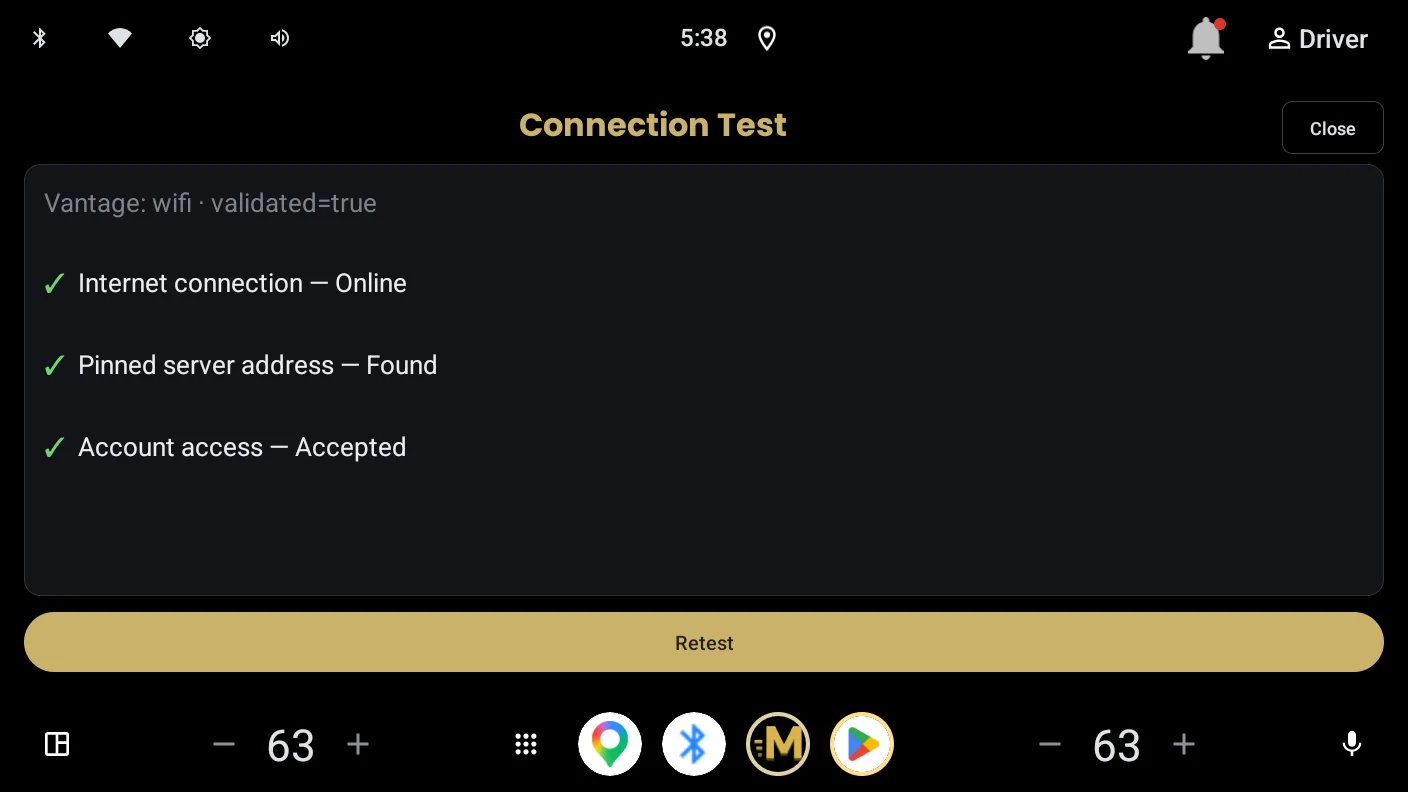
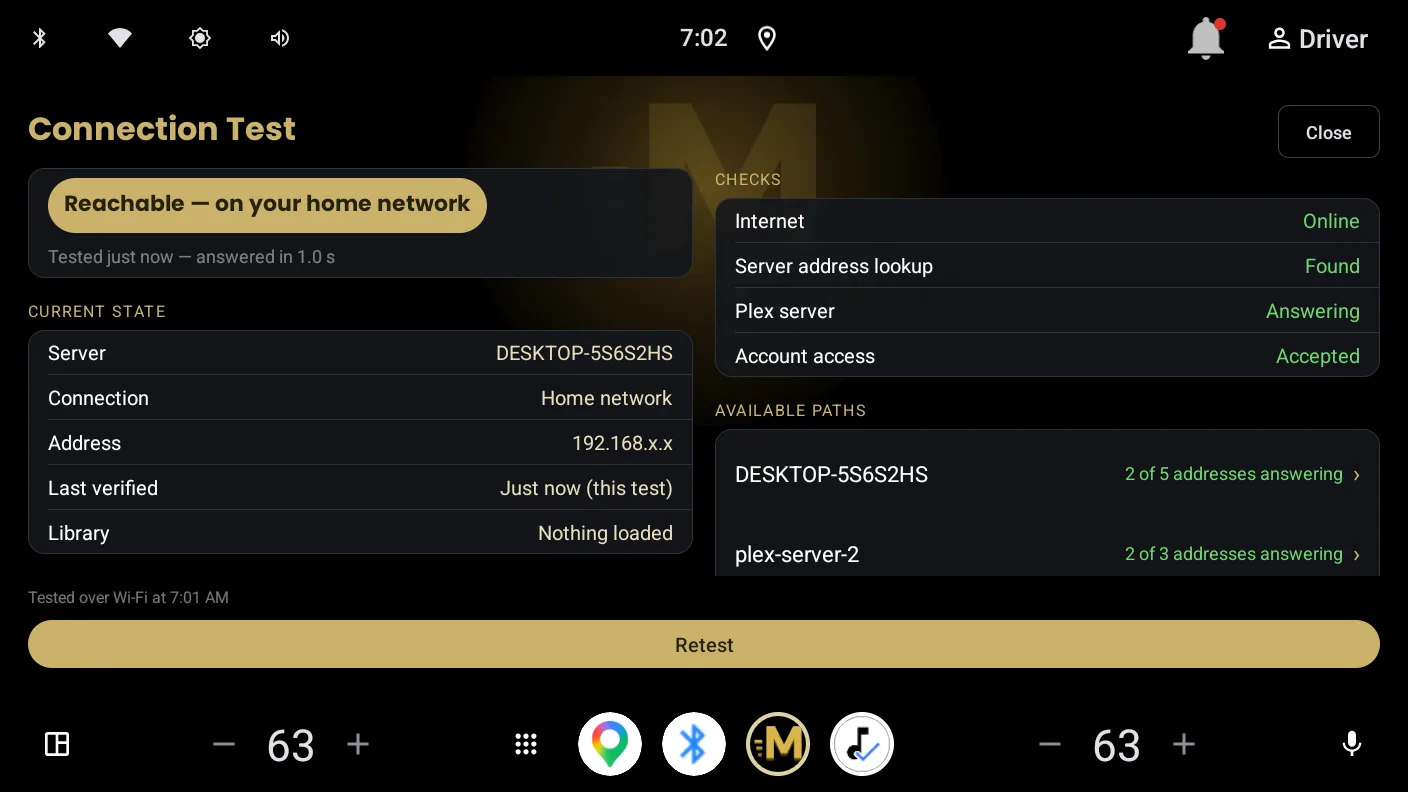
FAQ: Connection Test decoder, the three named connection causes, corrected quality answer, tunnel vs VPN

diff --git a/faq.html b/faq.html
@@ -26,7 +26,7 @@
   <h1>Help &amp; FAQ</h1>
   <p class="lede">Most problems come down to one question: can the car reach your server right now? Start with the Connection Test in the app's settings. It runs the same checks Momentum uses internally and tells you in plain language which step failed.</p>
 
-  <img class="shot" src="images/connection-test.webp" alt="Momentum's built-in Connection Test showing three passing checks: internet connection, pinned server address, and account access" width="1408" height="792" loading="lazy">
+  <img class="shot" src="images/connection-test.webp" alt="Momentum's built-in Connection Test: a green verdict reading Reachable, the server's current connection and address, four passing checks — internet, server address lookup, Plex server, and account access — and a list of every address Plex publishes for each server" width="1408" height="792" loading="lazy">
 
   <!-- DRAFT: these answers are starting points. Expand each from real tester
        cases, and add new entries as support questions repeat. -->
@@ -40,10 +40,50 @@
   </details>
 
   <details>
+    <summary>What do the Connection Test's checks actually mean?</summary>
+    <div class="answer">
+      <p><strong>Internet</strong> — whether the car has a working connection at all. This is tested against Plex's own servers. A failure here means the car is offline; nothing is wrong with your server.</p>
+      <p><strong>Server address lookup</strong> — whether your server's address can be translated into a network address. A failure is a DNS problem, usually in the car's network or a router setting, and not something Plex controls.</p>
+      <p><strong>Plex server</strong> — whether your server answered. This is the one that matters most. If it fails, the checks below it could not run.</p>
+      <p><strong>Account access</strong> — whether your server accepted your Plex account. "Not checked — server didn't answer" means the server never replied, so nothing about your account was tested. A real failure here reads "Rejected (not authorized)" and means either remote streaming needs a Plex Pass, or a shared server needs access granted by its owner.</p>
+      <p><strong>Available paths</strong> — every address Plex publishes for each of your servers, and which of them answered. "0 of 4 addresses answering" means none of the routes to that server worked from the car. If a second server shows addresses answering, you can switch to it in Settings.</p>
+    </div>
+  </details>
+
+  <details>
+    <summary>Plex publishes a direct address for my server, but it didn't answer</summary>
+    <div class="answer">
+      <p>This means Plex knows a public address for your server and is telling clients to use it, but nothing responded there. The server is running and talking to Plex; the route in from outside is broken.</p>
+      <p>The usual cause is a port forward that stopped working. Routers can drop forwards when they restart (depends on how it was configured), and a forward also breaks silently when the server's local address changes, which happens on its own if the server gets its address automatically. The durable fix is to give the server a fixed local address in your router's settings, then re-create the forward to that address.</p>
+      <p>Also worth checking: that the server is awake and not asleep, and that Plex's Remote Access page still reads "Fully accessible outside your network". If you have recently changed router or internet provider, the address Plex is publishing may simply be out of date. Plex will catch up on its own, though it can take a while.</p>
+    </div>
+  </details>
+
+  <details>
+    <summary>Plex is only advertising a local address for my server</summary>
+    <div class="answer">
+      <p>A local address only works inside your house, and your car connects from outside it. Plex has no public route to hand out, so there is nothing for the car to reach.</p>
+      <p>Open Plex's Settings, then Remote Access. It should read "Fully accessible outside your network". If Remote Access is switched off, turn it on, tick "Manually specify public port", and forward that port on your router to the machine running Plex. A fixed local address for the server makes that forward survive; if the server's address changes on its own, the forward stops pointing anywhere.</p>
+      <p>If you have just enabled it, give it a few minutes. Plex can be slow to publish a new address, and the car will find it once it appears.</p>
+      <p>If Remote Access is on and still cannot get a public route, your internet provider may not be giving you one. That is a different situation, covered below.</p>
+    </div>
+  </details>
+
+  <details>
+    <summary>My provider gives my server an address shared with other customers</summary>
+    <div class="answer">
+      <p>Shared addresses, sometimes called carrier-grade NAT, cannot accept incoming connections. No port forward will help, because there is no port to forward to. This is not something you have set up wrong; plenty of providers do it by default.</p>
+      <p>There are two ways out. The first is to ask your provider whether they can give the server its own public address. Some will, sometimes free and sometimes for a small charge, and some will not offer it at all. This varies by country and provider more than by anything you can control.</p>
+      <p>The second is a tunnel, which gives your server a public address without needing one from your provider. Tailscale Funnel is the simplest of these and is known to work with Momentum. Note that this is different from plain Tailscale or WireGuard, which the car cannot join.</p>
+      <p>If neither is possible, Plex Relay will still work. It is slower and caps quality, but it plays.</p>
+    </div>
+  </details>
+
+  <details>
     <summary>Why did my music quality drop, or a track play as MP3?</summary>
     <div class="answer">
-      <p>When the connection cannot sustain a file's full bitrate, Momentum automatically falls back to a converted stream rather than stopping playback. This is most common on Plex Relay connections, which are bandwidth-limited by Plex, and on weak cellular stretches. Your files on the server are never touched; the conversion happens in transit, and direct play resumes when conditions allow.</p>
-      <p>If this happens constantly, check whether your server is connecting via Relay instead of a direct port-forwarded connection.</p>
+      <p>If the file is FLAC and it still played as MP3, the connection could not carry it at full bitrate, so Momentum switched to a converted stream rather than stopping playback. This is most common on Plex Relay connections, which are bandwidth-limited by Plex, and on weak cellular stretches. Your files on the server are never touched; the conversion happens in transit, and direct play resumes when conditions allow.</p>
+      <p>If this happens constantly, check whether your server is connecting via Relay instead of a direct port-forwarded connection. The Connection Test in the app's settings will tell you which.</p>
     </div>
   </details>
 
